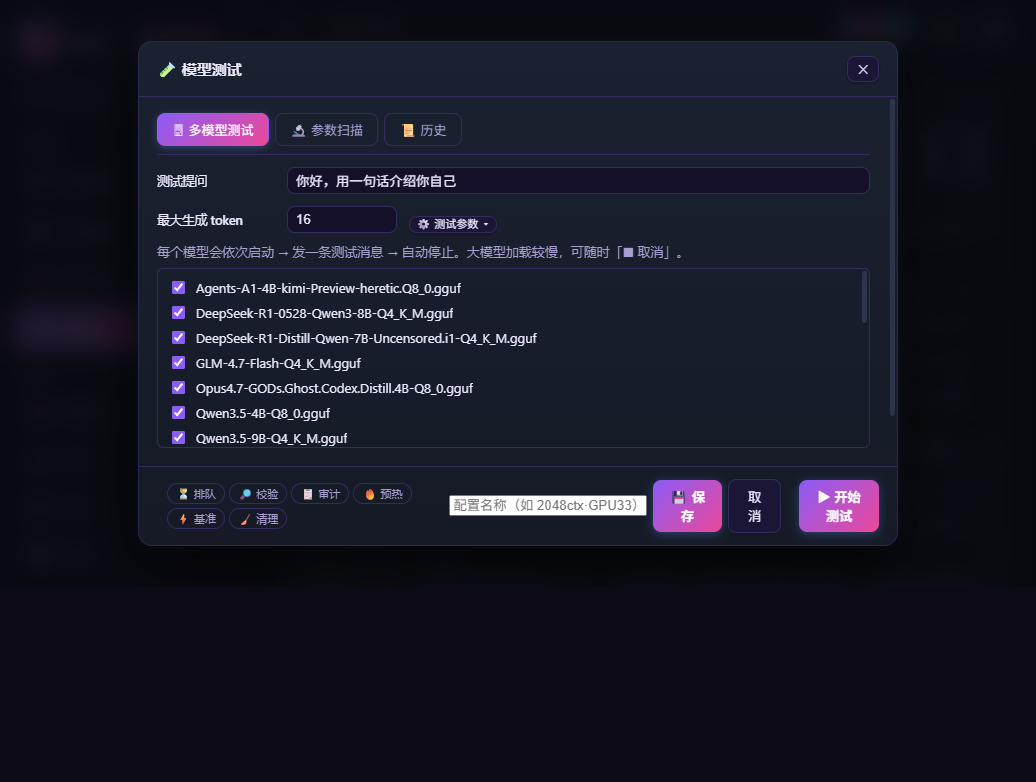
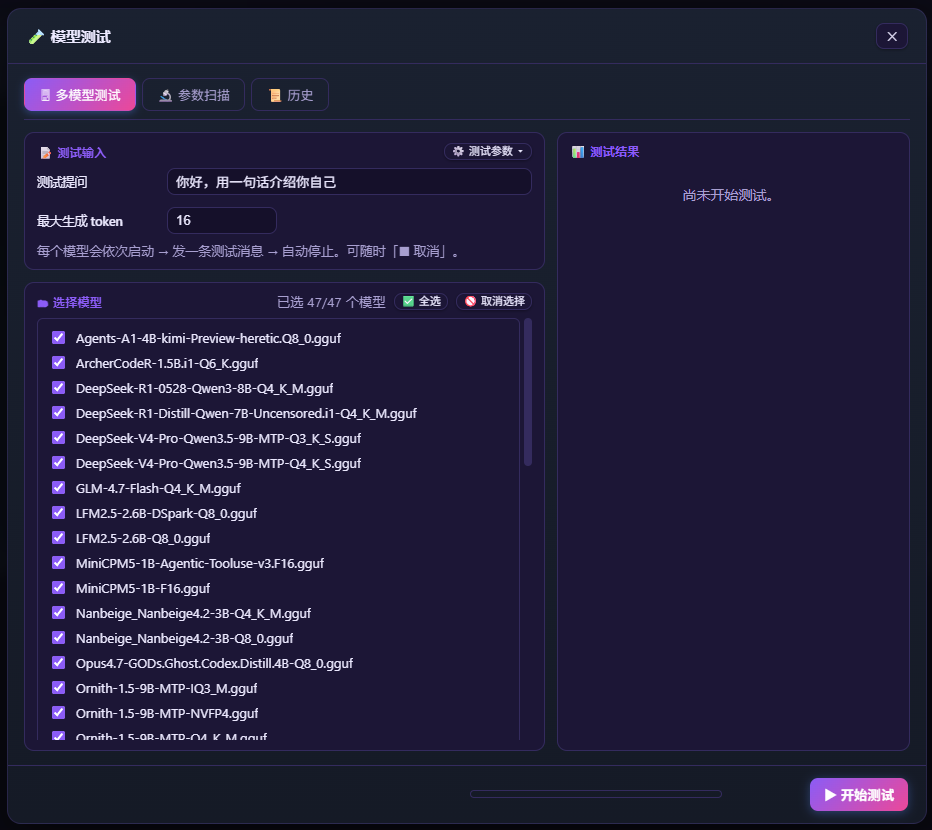
docs: 更新 README 界面截图（投机解码/参数扫描/测试历史/参数悬停说明），API Key 已打码

diff --git a/README.md b/README.md
@@ -62,6 +62,12 @@ Llama Launcher 是一个基于 Web 的图形化管理工具，为 [llama.cpp](ht
 ![主界面](docs/screenshots/main.png)
 *主界面：模型选择、参数配置、实时命令预览、运行实例与日志控制台（紫色主题）*
 
+![高级参数](docs/screenshots/params-advanced.png)
+*高级参数：专家级参数（KV 缓存、并行槽位、推理预算、反向提示词等）+ 实时命令预览*
+
+![参数悬停说明](docs/screenshots/param-hover.png)
+*参数说明：悬停任意参数即显示作用、推荐值与默认值*
+
 ![性能监控](docs/screenshots/monitor.png)
 *性能监控：KPI 指标卡、吞吐趋势图、每实例实时监控（输入/输出 token、速率、KV 占用）*
 
@@ -77,8 +83,14 @@ Llama Launcher 是一个基于 Web 的图形化管理工具，为 [llama.cpp](ht
 ![工具扩展 MCP](docs/screenshots/mcp.png)
 *工具扩展 MCP：模板库一键添加、健康检测、绑定模型*
 
-![批量测试与参数扫描](docs/screenshots/test.png)
-*批量测试与参数扫描：穷举寻优 / 智能寻优*
+![批量测试](docs/screenshots/test.png)
+*批量测试：多模型逐个启动、发送提示、自动收集吞吐与耗时*
+
+![参数扫描](docs/screenshots/test-sweep.png)
+*参数扫描：GPU 层数 / 上下文等组合穷举寻优 / 智能寻优*
+
+![测试历史](docs/screenshots/test-history.png)
+*测试历史：结果保存、对比导出、快照恢复*
 
 ![使用洞察](docs/screenshots/insights.png)
 *使用洞察：Token 统计、模型热度、吞吐仪表盘*
